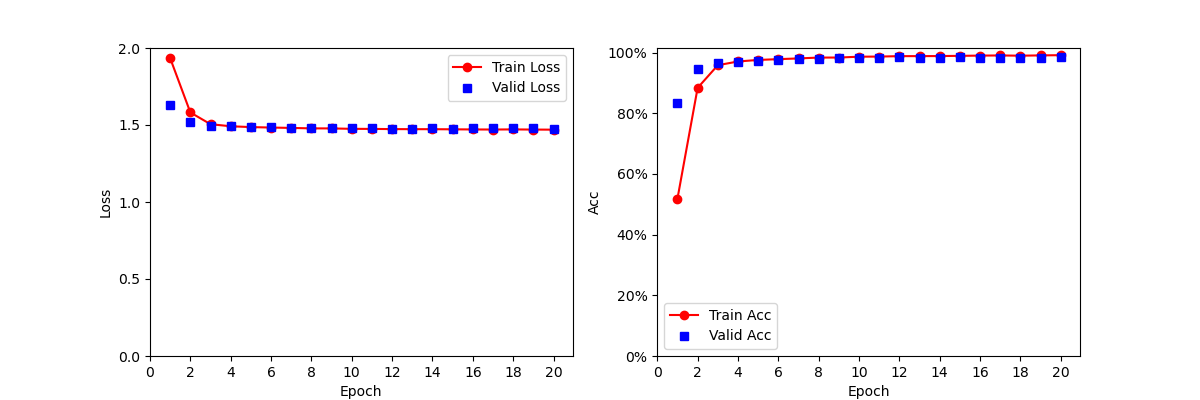
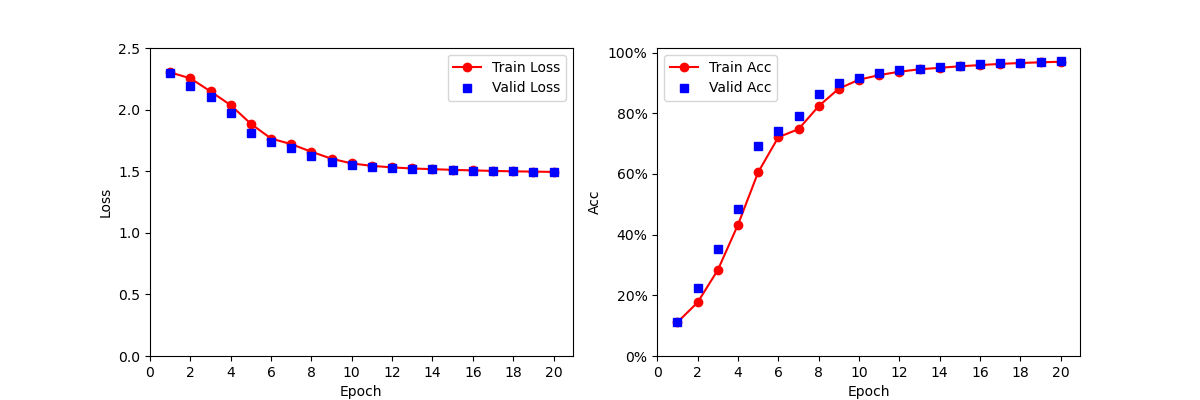
优化了Dataloader的加载速度

diff --git a/DeepLearning/Models/CNN/LeNet-5/scripts/model_train.py b/DeepLearning/Models/CNN/LeNet-5/scripts/model_train.py
@@ -1,6 +1,5 @@
 import copy
 import time
-from time import sleep
 
 import matplotlib.pyplot as plt
 import numpy as np
@@ -14,6 +13,38 @@ from tqdm import tqdm
 
 # 导入模型
 from model import LeNet5
+
+
+# 重构 DataLoader
+class MultiEpochsDataLoader(torch.utils.data.DataLoader):
+
+    def __init__(self, *args, **kwargs):
+        super().__init__(*args, **kwargs)
+        self._DataLoader__initialized = False
+        self.batch_sampler = _RepeatSampler(self.batch_sampler)
+        self._DataLoader__initialized = True
+        self.iterator = super().__iter__()
+
+    def __len__(self):
+        return len(self.batch_sampler.sampler)
+
+    def __iter__(self):
+        for i in range(len(self)):
+            yield next(self.iterator)
+
+
+class _RepeatSampler(object):
+    """ Sampler that repeats forever.
+    Args:
+        sampler (Sampler)
+    """
+
+    def __init__(self, sampler):
+        self.sampler = sampler
+
+    def __iter__(self):
+        while True:
+            yield from iter(self.sampler)
 
 
 # 处理数据集，划分为训练集和验证集
@@ -30,21 +61,21 @@ def train_valid_split():
     train_data, valid_data = Data.random_split(Train_Dataset, [train_size, valid_size])
 
     # 将训练集和验证集转换为可迭代的 DataLoader 对象
-    train_dataloader = Data.DataLoader(dataset=train_data,
-                                       batch_size=128,
-                                       shuffle=True,
-                                       num_workers=2)
+    train_dataloader = MultiEpochsDataLoader(dataset=train_data,
+                                             batch_size=2048,
+                                             shuffle=True,
+                                             num_workers=8,
+                                             pin_memory=True)
 
-    valid_dataloader = Data.DataLoader(dataset=valid_data,
-                                       batch_size=128,
-                                       shuffle=True,
-                                       num_workers=2)
-
+    valid_dataloader = MultiEpochsDataLoader(dataset=valid_data,
+                                             batch_size=2048,
+                                             shuffle=True,
+                                             num_workers=8,
+                                             pin_memory=True)
     return train_dataloader, valid_dataloader
 
 
 # 训练模型
-# noinspection PyTypeChecker
 def train_model(model, train_dataloader, valid_dataloader, num_epochs, learning_rate):
     """
     @param model: 模型名称
@@ -56,7 +87,8 @@ def train_model(model, train_dataloader, valid_dataloader, num_epochs, learning_
     """
 
     # 决定使用 GPU 还是 CPU
-    device = torch.device('cuda' if torch.cuda.is_available() else 'cpu')
+    device = torch.device("mps" if torch.backends.mps.is_available() else "cpu")
+
     # 定义损失函数
     criterion = nn.CrossEntropyLoss()
     # 定义优化器
@@ -84,12 +116,6 @@ def train_model(model, train_dataloader, valid_dataloader, num_epochs, learning_
     for epoch in range(num_epochs):
         # 记录本轮次开始的的时间
         epoch_start_time = time.time()
-        sleep(1)
-
-        # 打印训练轮次
-        # print("=" * 70)
-        # print('Epoch {}/{}'.format(epoch + 1, num_epochs))
-        # print('-' * 10)
 
         # 初始化每轮训练的损失值和准确率
         train_loss = 0.0
@@ -103,12 +129,14 @@ def train_model(model, train_dataloader, valid_dataloader, num_epochs, learning_
         valid_sample_num = 0
 
         # 对每一个 mini-batch 进行分批次训练和计算
-        with tqdm(total=len(train_dataloader) + len(valid_dataloader), colour="green", ncols=150, unit=' batch') as pbar:
+        with tqdm(total=len(train_dataloader) + len(valid_dataloader), colour="green", ncols=150,
+                  unit=' batch') as pbar:
             # 设置进度条的前缀
             pbar.set_description('Epoch {}/{}'.format(epoch + 1, num_epochs))
             pbar.set_postfix_str(
-                "Train Loss: {:.4f}\tTrain Acc: {:.2f}%\tValid Loss: {:.4f}\t Valid Acc: {:.2f}%".format(0, 0, 0, 0))
+                "Train Loss: {:.4f}  Train Acc: {:.2f}%  Valid Loss: {:.4f}  Valid Acc: {:.2f}%".format(0, 0, 0, 0))
 
+            # 对每一个 mini-batch 进行分批次训练和计算
             for step, (batch_image, batch_label) in enumerate(train_dataloader):
                 # 将特征图和标签数据加载到 device 上
                 batch_image = batch_image.to(device)
@@ -142,7 +170,7 @@ def train_model(model, train_dataloader, valid_dataloader, num_epochs, learning_
 
                 # 设置进度条的监测量
                 pbar.set_postfix_str(
-                    "Train Loss: {:.4f}\tTrain Acc: {:.2f}%\tValid Loss: {:.4f}\t Valid Acc: {:.2f}%".format(
+                    "Train Loss: {:.4f}  Train Acc: {:.2f}%  Valid Loss: {:.4f}  Valid Acc: {:.2f}%".format(
                         round(train_loss / train_sample_num, 4),
                         round(train_corrects / train_sample_num, 4) * 100,
                         0,
@@ -151,7 +179,6 @@ def train_model(model, train_dataloader, valid_dataloader, num_epochs, learning_
                 pbar.update(1)
 
             # 对每一个 mini-batch 进行分批次验证和计算
-            # print("Validating Progress:")
             for step, (batch_image, batch_label) in enumerate(valid_dataloader):
                 # 将特征图和标签数据加载到 device 上
                 batch_image = batch_image.to(device)
@@ -177,7 +204,7 @@ def train_model(model, train_dataloader, valid_dataloader, num_epochs, learning_
 
                 # 设置进度条的监测量
                 pbar.set_postfix_str(
-                    "Train Loss: {:.4f}\tTrain Acc: {:.2f}%\tValid Loss: {:.4f}\tValid Acc: {:.2f}%".format(
+                    "Train Loss: {:.4f}\tTrain Acc: {:.2f}%\tValid Loss: {:.4f}\t Valid Acc: {:.2f}%".format(
                         round(train_loss / train_sample_num, 4),
                         round(train_corrects / train_sample_num, 4) * 100, round(valid_loss / valid_sample_num, 4),
                         round(valid_corrects / valid_sample_num, 4) * 100))
@@ -201,10 +228,6 @@ def train_model(model, train_dataloader, valid_dataloader, num_epochs, learning_
         valid_acc = valid_corrects / valid_sample_num
         valid_acc = round(valid_acc, 4)
         valid_acc_list.append(valid_acc)
-
-        # # 打印当前轮次训练和验证的损失值和准确率
-        # print('Train Loss: {:.4f} Train Acc: {:.4f}'.format(train_loss, train_acc))
-        # print('Valid Loss: {:.4f} Valid Acc: {:.4f}'.format(valid_loss, valid_acc))
 
         # 如果当前轮次验证准确率更高，则更新最佳验证准确率和最佳模型参数
         if valid_acc > best_valid_acc:

diff --git a/DeepLearning/Models/CNN/LeNet-5/scripts/model.py b/DeepLearning/Models/CNN/LeNet-5/scripts/model.py
@@ -9,6 +9,8 @@ class LeNet5(nn.Module):
     # 初始化
     def __init__(self):
         super(LeNet5, self).__init__()
+        # 决定用 GPU 还是 CPU
+        self.device = torch.device("mps" if torch.backends.mps.is_available() else "cpu")
 
         # 定义激活函数
         self.sigmoid = nn.Sigmoid()
@@ -25,6 +27,9 @@ class LeNet5(nn.Module):
         self.linear7 = nn.Linear(in_features=84, out_features=10)
 
     def forward(self, x):
+        # 将数据加载到 device 上
+        x = x.to(self.device)
+
         # 第一个卷积块
         x = self.conv1(x)
         x = self.sigmoid(x)
@@ -54,7 +59,7 @@ class LeNet5(nn.Module):
 # 主函数
 if __name__ == '__main__':
     # 决定使用 GPU 还是 CPU
-    device = torch.device('cuda' if torch.cuda.is_available() else 'cpu')
+    device = torch.device("mps" if torch.backends.mps.is_available() else "cpu")
     print('Using device:', device)
 
     # 实例化模型
